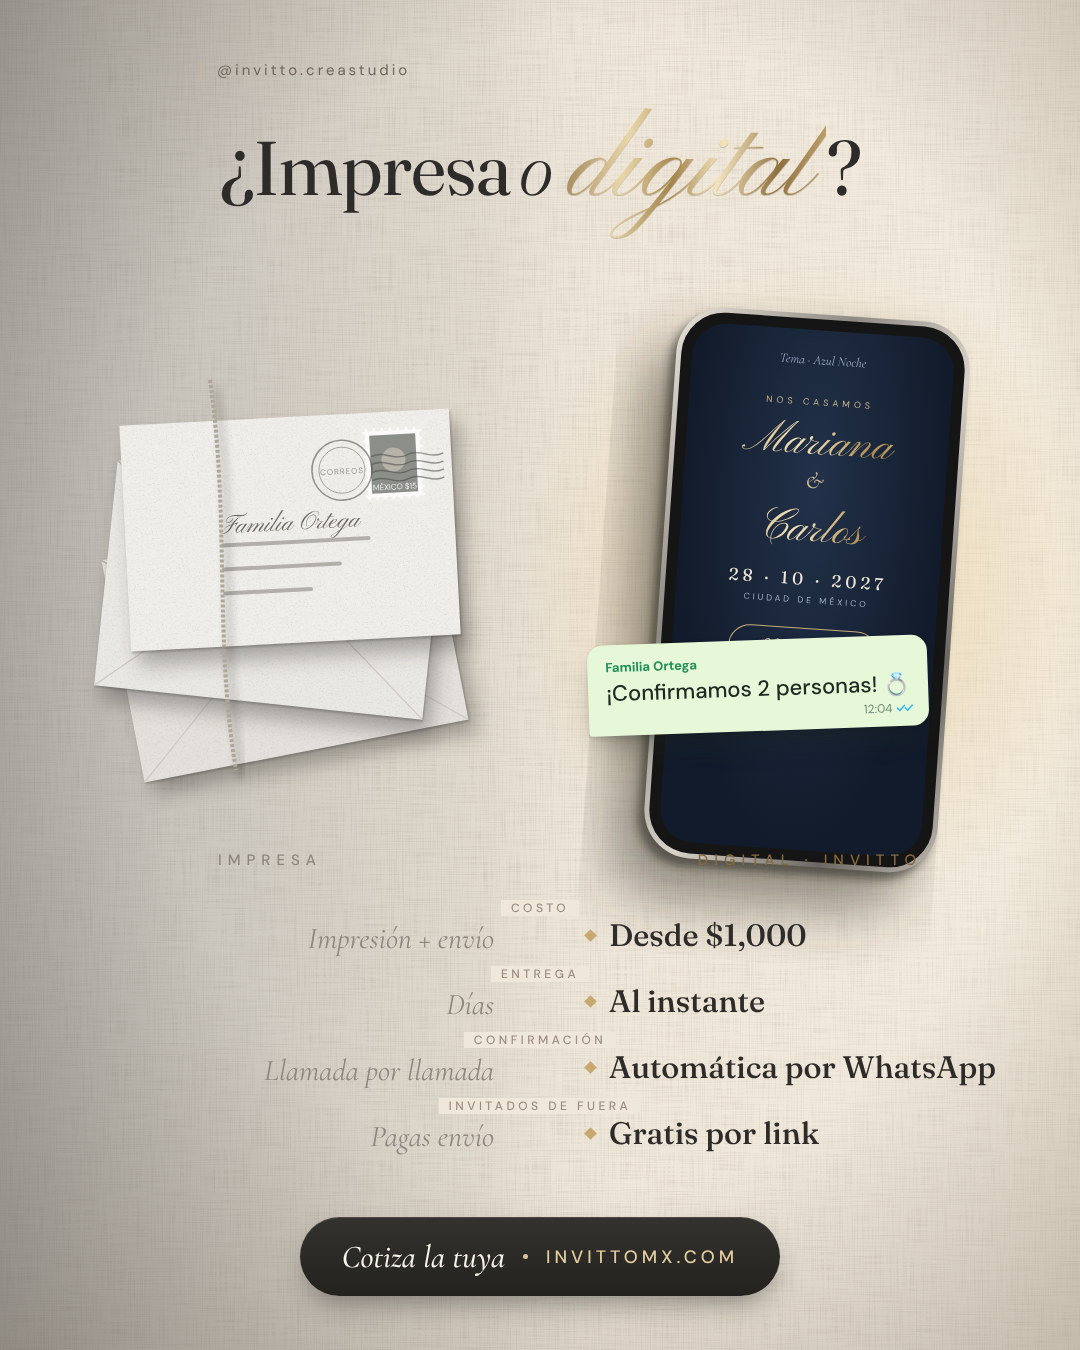
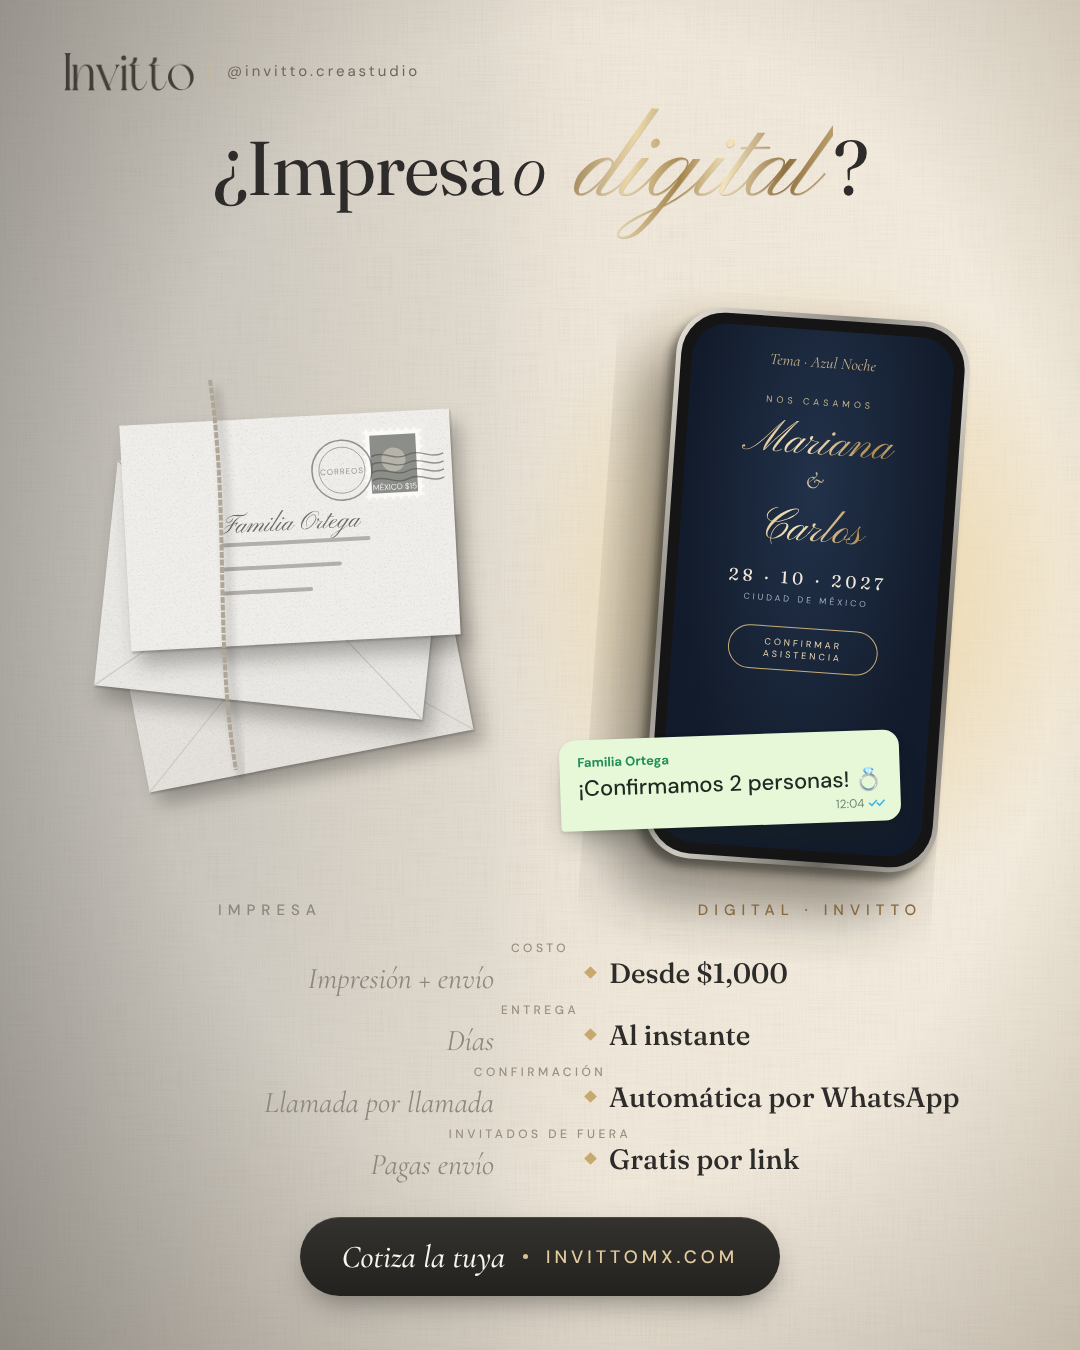
Redesign wedding posts with Invitto themes
Claude-Session: https://claude.ai/code/session_01EgrmTncf6G6khRgjzffLsV

diff --git a/invitto-posts/src/boda-2-impresa-vs-digital.html b/invitto-posts/src/boda-2-impresa-vs-digital.html
@@ -12,12 +12,12 @@ h1{top:112px;left:0;right:0;text-align:center;font-weight:400;color:#2E2C2A;line
 h1 .a{font-family:Fraunces;font-weight:300;font-size:76px;letter-spacing:-1px}
 h1 .b{font-family:Fraunces;font-style:italic;font-weight:300;font-size:76px}
 h1 .c{font-family:'Pinyon Script';font-size:112px;background:linear-gradient(100deg,#86693E 0%,#E9D6A8 28%,#A3844C 45%,#F4E4BC 60%,#8F7040 80%,#CDB27C 100%);-webkit-background-clip:text;color:transparent;padding:0 14px;filter:drop-shadow(0 1px 0 rgba(90,70,36,.25))}
-.colhead{top:850px;width:540px;text-align:center;font-family:'DM Sans';font-weight:500;font-size:15px;letter-spacing:6px}
-.rows{top:900px;left:0;right:0}
-.row{position:relative;height:66px}
-.row .lab{position:absolute;left:50%;top:0;transform:translateX(-50%);background:#EFE7D9;padding:0 10px;font-family:'DM Sans';font-weight:500;font-size:12px;letter-spacing:3.5px;color:#9A8F80;white-space:nowrap}
+.colhead{top:900px;width:540px;text-align:center;font-family:'DM Sans';font-weight:500;font-size:15px;letter-spacing:6px}
+.rows{top:940px;left:0;right:0}
+.row{position:relative;height:62px}
+.row .lab{position:absolute;left:50%;top:0;transform:translateX(-50%);font-family:'DM Sans';font-weight:500;font-size:12px;letter-spacing:3.5px;color:#9A8F80;white-space:nowrap}
 .row .l{position:absolute;right:calc(50% + 46px);top:20px;font-family:'Cormorant Garamond';font-style:italic;font-size:30px;color:#8D877E;white-space:nowrap}
-.row .r{position:absolute;left:calc(50% + 46px);top:16px;font-family:Fraunces;font-weight:500;font-size:31px;color:#2E2C2A;white-space:nowrap}
+.row .r{position:absolute;left:calc(50% + 46px);top:16px;font-family:Fraunces;font-weight:500;font-size:28px;color:#2E2C2A;white-space:nowrap}
 .row .r:before{content:'';display:inline-block;width:9px;height:9px;background:#C7A96F;transform:rotate(45deg);margin-right:14px;position:relative;top:-6px}
 .cta{bottom:54px;left:0;right:0;text-align:center}
 .cta .pill{display:inline-flex;align-items:center;gap:18px;padding:20px 42px;border-radius:60px;background:linear-gradient(180deg,#34322F,#24221F);box-shadow:0 14px 30px -10px rgba(46,44,42,.55),inset 0 1px 0 rgba(255,255,255,.12)}
@@ -33,8 +33,8 @@ h1 .c{font-family:'Pinyon Script';font-size:112px;background:linear-gradient(100
 .screen .dt{margin-top:16px;font-family:Fraunces;font-size:17px;letter-spacing:4px;color:#F1E8DA}
 .screen .pl{margin-top:6px;font-family:'DM Sans';font-size:8.5px;letter-spacing:3px;color:#9FB0C6}
 .screen .btn{margin:22px auto 0;width:150px;padding:9px 0;border:1px solid #C9AE78;border-radius:30px;font-family:'DM Sans';font-size:9px;letter-spacing:3px;color:#EAD9B2}
-.screen .theme{position:absolute;top:22px;left:0;right:0;font-family:'Cormorant Garamond';font-style:italic;font-size:13px;color:#9FB0C6}
-.bubble{position:absolute;left:588px;top:640px;background:#E7F8D9;border-radius:16px 16px 16px 4px;padding:14px 18px 10px;box-shadow:0 18px 30px -12px rgba(30,40,30,.45),0 2px 4px rgba(0,0,0,.12);transform:rotate(-2deg)}
+.screen .theme{position:absolute;top:22px;left:0;right:0;font-family:'Cormorant Garamond';font-style:italic;font-size:16px;color:#C9B58A}
+.bubble{position:absolute;left:560px;top:735px;background:#E7F8D9;border-radius:16px 16px 16px 4px;padding:14px 18px 10px;box-shadow:0 18px 30px -12px rgba(30,40,30,.45),0 2px 4px rgba(0,0,0,.12);transform:rotate(-2deg)}
 .bubble .w{font-family:'DM Sans';font-weight:700;font-size:13px;color:#1F8F55;margin-bottom:3px}
 .bubble .m{font-family:'DM Sans';font-weight:500;font-size:22px;color:#1E2A22}
 .bubble .m em{font-style:normal;font-family:'Noto Color Emoji'}
@@ -54,7 +54,7 @@ h1 .c{font-family:'Pinyon Script';font-size:112px;background:linear-gradient(100
     <stop offset=".62" stop-color="#fff" stop-opacity="0"/><stop offset="1" stop-color="#FFF6E2" stop-opacity=".25"/>
   </linearGradient>
   <radialGradient id="vig" cx="55%" cy="45%" r="78%"><stop offset=".55" stop-color="#3a2f22" stop-opacity="0"/><stop offset="1" stop-color="#3a2f22" stop-opacity=".32"/></radialGradient>
-  <radialGradient id="glow" cx="50%" cy="50%" r="50%"><stop offset="0" stop-color="#F3DDA9" stop-opacity=".95"/><stop offset=".45" stop-color="#E8CF98" stop-opacity=".35"/><stop offset="1" stop-color="#E8CF98" stop-opacity="0"/></radialGradient>
+  <radialGradient id="glow" cx="50%" cy="50%" r="50%"><stop offset="0" stop-color="#F3DDA9" stop-opacity="1"/><stop offset=".5" stop-color="#EBD29C" stop-opacity=".5"/><stop offset="1" stop-color="#E8CF98" stop-opacity="0"/></radialGradient>
   <filter id="grain" x="0" y="0" width="100%" height="100%">
     <feTurbulence type="fractalNoise" baseFrequency="0.8" numOctaves="3" seed="12"/>
     <feColorMatrix type="matrix" values="0 0 0 0 .4  0 0 0 0 .38  0 0 0 0 .35  0 0 0 -1 .45"/>
@@ -69,7 +69,7 @@ h1 .c{font-family:'Pinyon Script';font-size:112px;background:linear-gradient(100
   <linearGradient id="gline" x1="0" y1="0" x2="0" y2="1"><stop offset="0" stop-color="#C7A96F" stop-opacity="0"/><stop offset=".15" stop-color="#C7A96F"/><stop offset=".9" stop-color="#C7A96F"/><stop offset="1" stop-color="#C7A96F" stop-opacity="0"/></linearGradient>
 </defs>
 <rect width="1080" height="1350" fill="#EFE7D9"/>
-<rect width="1080" height="1350" filter="url(#linen)" opacity=".5"/>
+<rect width="1080" height="1350" filter="url(#linen)" opacity=".22"/>
 <rect width="1080" height="1350" fill="url(#light)"/>
 <rect width="1080" height="1350" fill="url(#vig)"/>
 
@@ -86,11 +86,11 @@ h1 .c{font-family:'Pinyon Script';font-size:112px;background:linear-gradient(100
   <rect x="772" y="340" width="70" height="20" rx="10" fill="#050505"/>
 </g>
 <!-- gold hairline divider -->
-<line x1="540" y1="880" x2="540" y2="1180" stroke="url(#gline)" stroke-width="1.2"/>
+
 </svg>
 
-<div class="abs brand"><div class="lg"></div><span>@invitto.creastudio</span></div>
-<h1 class="abs"><span class="a">¿Impresa</span> <span class="b">o</span><span class="c">digital</span><span class="a">?</span></h1>
+<div class="abs brand"><img src="../assets/logo-crema.png" style="width:130px;filter:brightness(.22) sepia(.3)"><span>@invitto.creastudio</span></div>
+<h1 class="abs"><span class="a">¿Impresa</span> <span class="b">o&nbsp;</span><span class="c">digital</span><span class="a">?</span></h1>
 
 <div class="screen"><div class="in">
   <div class="theme">Tema · Azul Noche</div>
@@ -117,7 +117,7 @@ const NS='http://www.w3.org/2000/svg';
 function el(t,a,p){const e=document.createElementNS(NS,t);for(const k in a)e.setAttribute(k,a[k]);p.appendChild(e);return e;}
 const env=document.getElementById('env');
 const W=330,H=226;
-const specs=[[285,640,-11,'#E6E1D8'],[270,590,6,'#ECE8E0'],[290,530,-3,'#F2EEE6']];
+const specs=[[290,650,-11,'#E6E1D8'],[270,590,6,'#ECE8E0'],[290,530,-3,'#F2EEE6']];
 specs.forEach(([cx,cy,r,col],i)=>{
   const g=el('g',{transform:`translate(${cx} ${cy}) rotate(${r})`},env);
   el('rect',{x:-W/2,y:-H/2,width:W,height:H,fill:'#2a2620',opacity:.35,filter:'url(#s10)',transform:'translate(8 14)'},g);
@@ -150,6 +150,6 @@ specs.forEach(([cx,cy,r,col],i)=>{
 // twine around stack
 const t=el('g',{},env);
 el('path',{d:'M 210 380 C 230 520, 214 640, 236 770',stroke:'#000',opacity:.18,'stroke-width':6,fill:'none',filter:'url(#s4)',transform:'translate(6 8)'},t);
-el('path',{d:'M 210 380 C 230 520, 214 640, 236 770',stroke:'#B5A58A','stroke-width':4,fill:'none','stroke-dasharray':'3 2'},t);
+el('path',{d:'M 210 380 C 230 520, 214 640, 236 770',stroke:'#B5A58A','stroke-width':4,fill:'none','stroke-dasharray':'6 1.5'},t);
 </script>
 </body></html>
